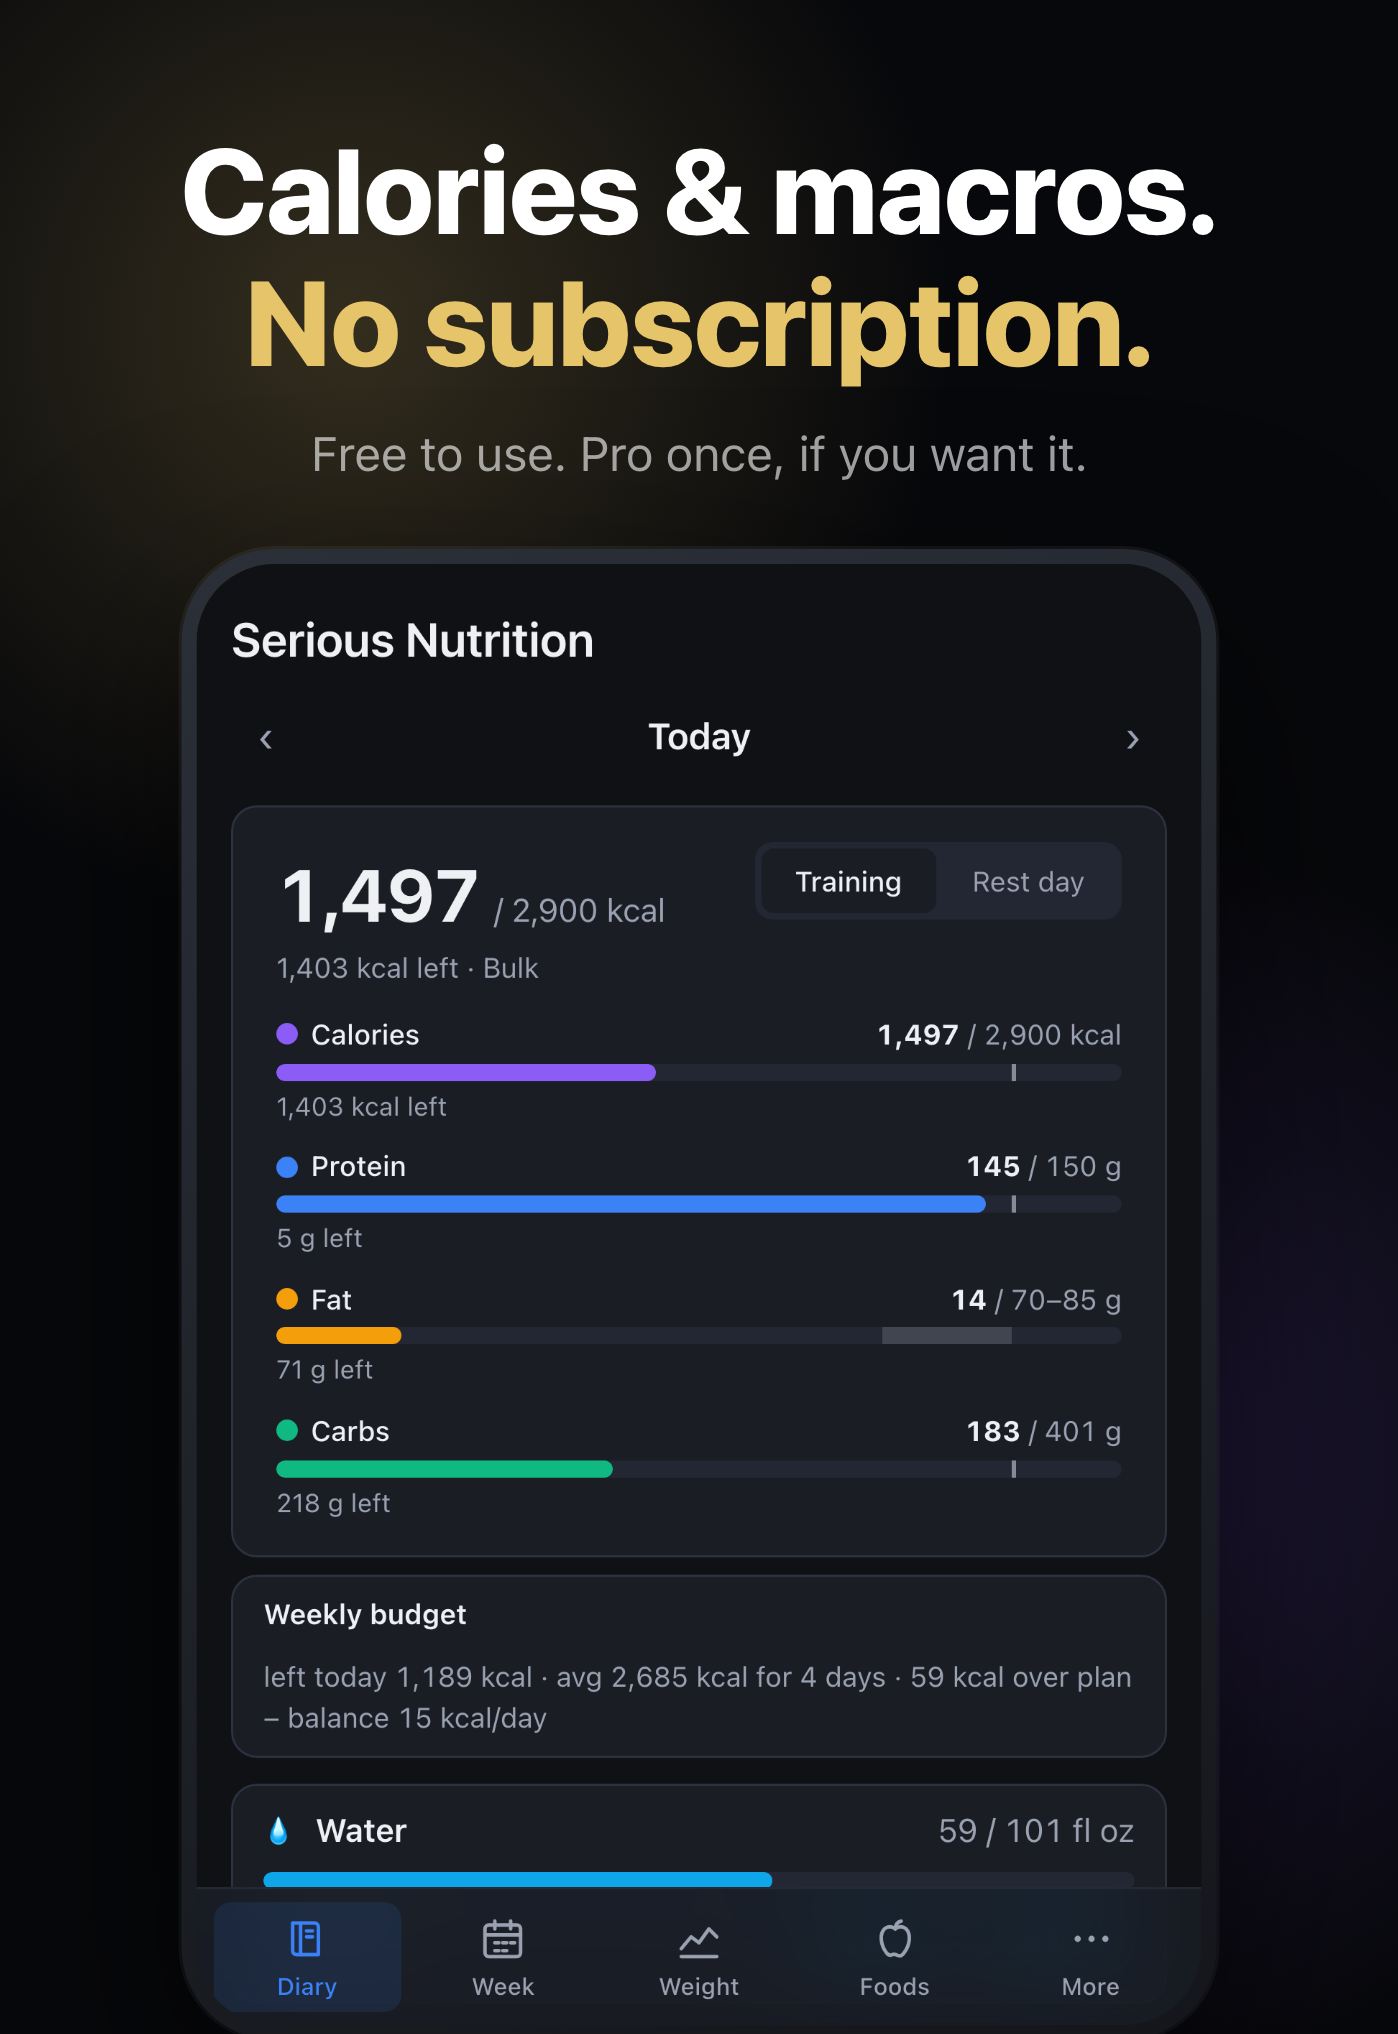
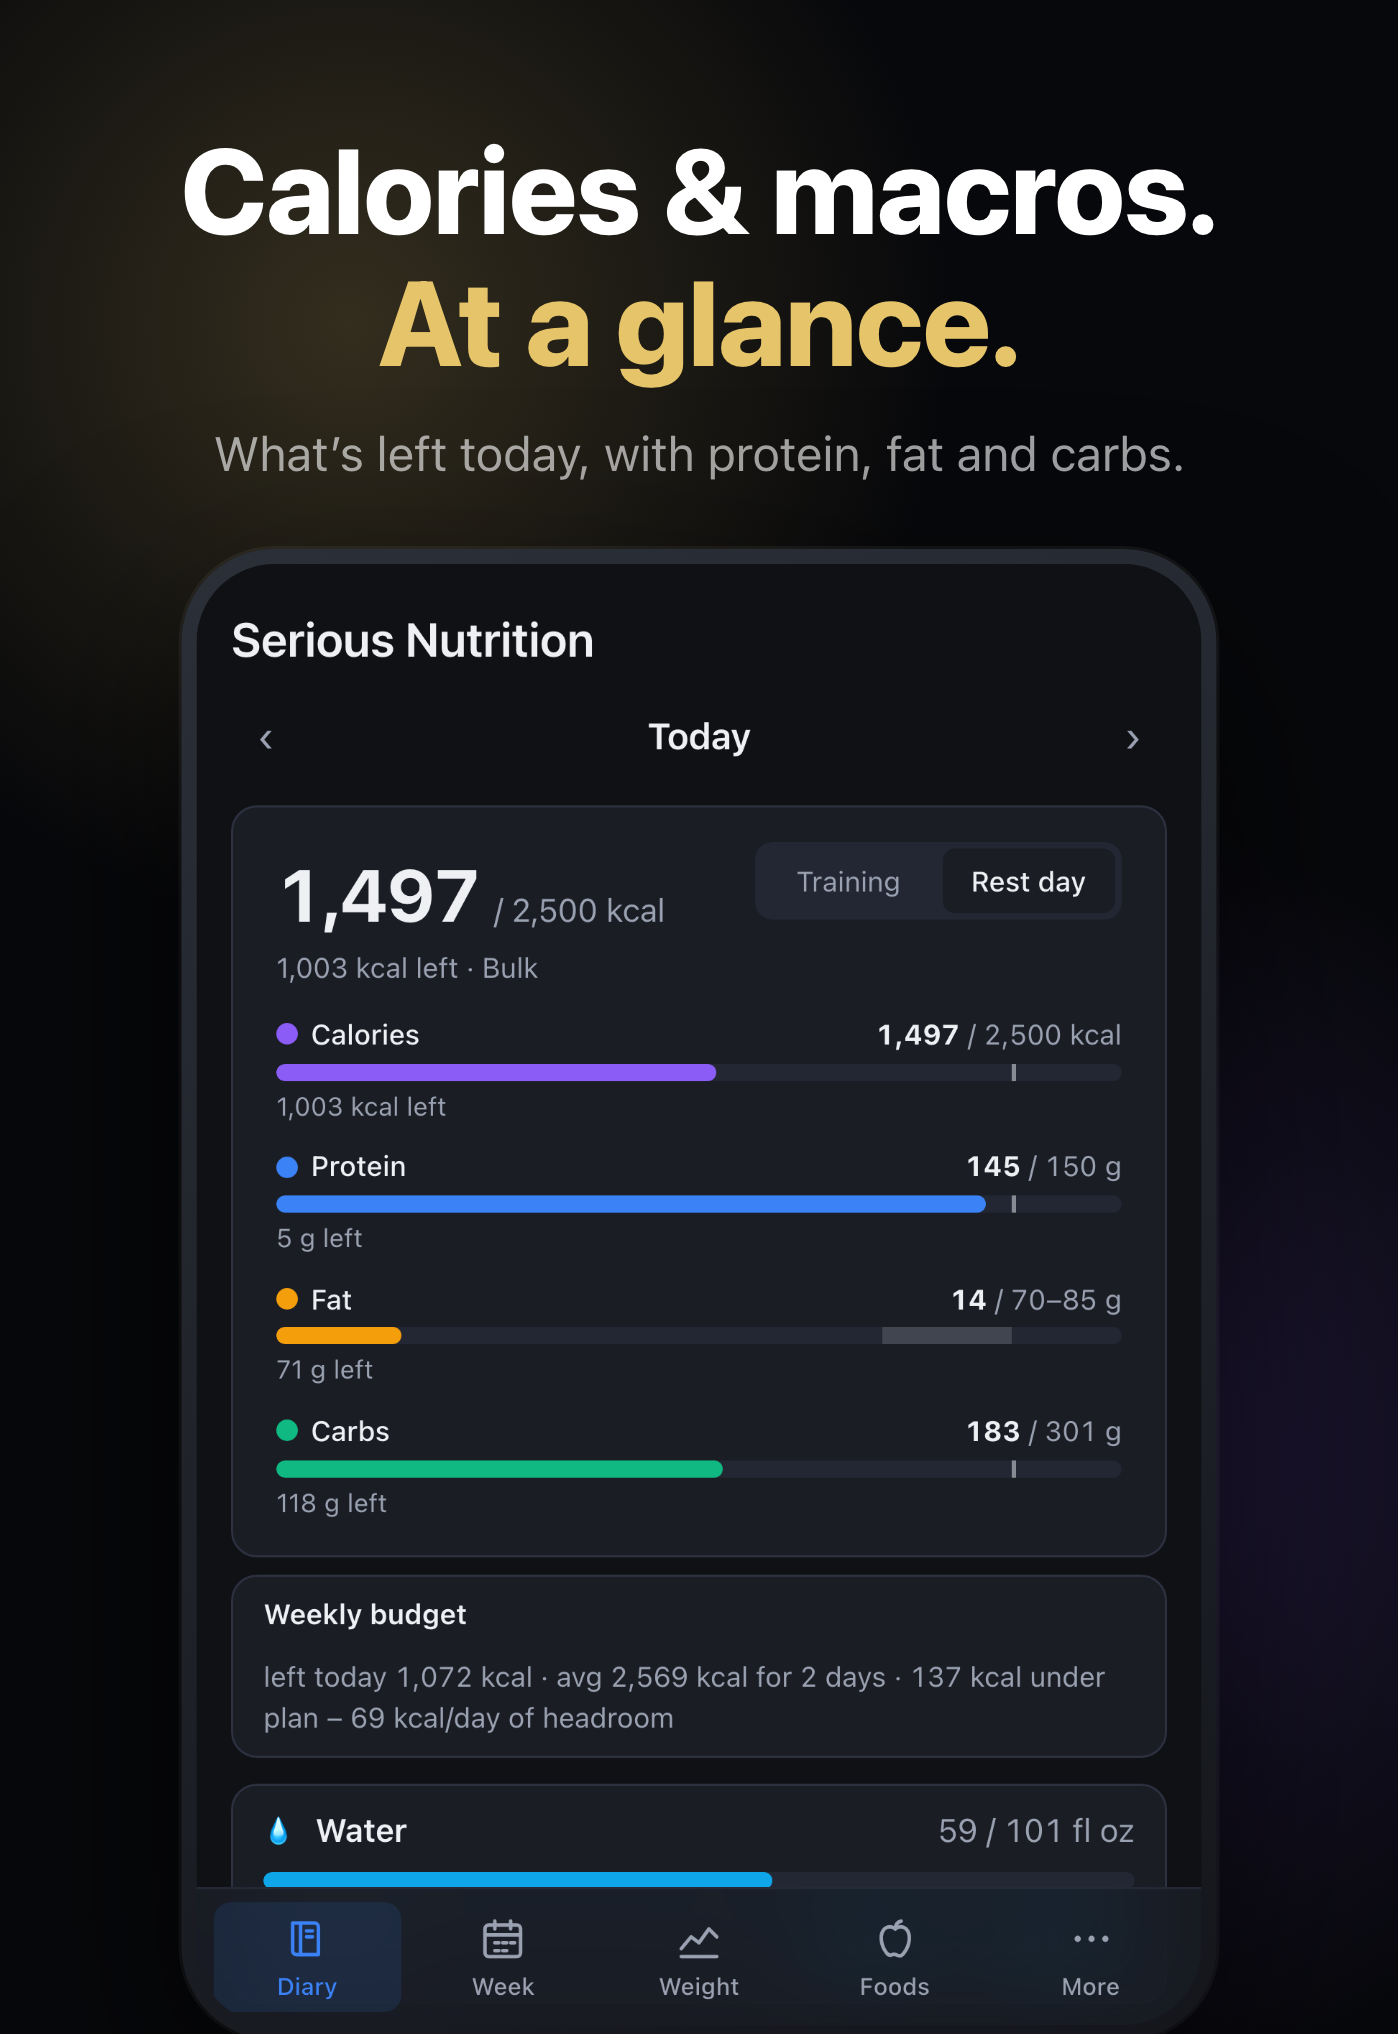
1.2: Screenshot 1 ohne Preisangabe (Ablehnung 2.3.7), Store-Texte und Review-Notizen eingetragen

diff --git a/docs/APP-REVIEW-NOTES.md b/docs/APP-REVIEW-NOTES.md
@@ -96,3 +96,31 @@ pre-fills a form the user saves.
 PRIVACY – Unchanged: no accounts, no analytics, no data collection. Fewer requests to Open Food
 Facts than before, because most lookups are answered from the bundled extract.
 ```
+
+
+# Eingetragen für 1.2 (16.10.2026)
+
+Alter Text + Ergänzung hätten 5'300 Zeichen ergeben, Apple erlaubt 4'000. Eingetragen ist deshalb
+ein gekürzter Gesamttext (3'250 Zeichen):
+
+```
+Serious Nutrition is an offline calorie and macro tracker. No account, login or sign-in exists; all data is stored on the device. The screen recording attached to earlier versions shows the full flow (onboarding, adding food, barcode scan incl. camera prompt, water, week, weight, foods, settings, backup).
+
+PURPOSE - A calorie and macro diary for people who train with a goal (muscle gain, fat loss, maintenance), built by a calisthenics coach. Targets differ between training and rest days, protein is a minimum, fat a range, and the week is treated as a budget.
+
+SETUP - No login or sample files needed. First launch: onboarding suggests targets; "Skip" is available. Diary: "+ Add" on a meal > Search, Scan, Templates or Manual. Any retail barcode works for testing the scanner.
+
+IN-APP PURCHASE - One non-consumable, "Serious Nutrition Pro" (pro_lifetime): one-time, no subscription, no trial, no account. Validated through StoreKit via RevenueCat; "Restore purchases" is on the paywall and under More. Free stays free: diary, scanning, search, water, targets, week and weekly budget, reminders, backup. Pro unlocks Apple Health, the phase review, widgets, templates and "copy yesterday", portion sizes, the weight trend chart and CSV export. To see the paywall: More > Serious Nutrition Pro, or tap any item marked PRO. Users who had the app before 1.1 keep Pro for free; a fresh install sees the paywall (intended).
+
+WHAT'S NEW IN 1.2
+- Bundled products: about 290,000 branded products from Open Food Facts (the most-scanned worldwide plus the most-scanned of every country), with name, brand, energy, protein, fat and carbohydrates per 100 g. Scans and product search check this extract first, without a network request; only products not in it are looked up online as before. ODbL (contents DbCL), attributed under More, in the description and in the terms of use.
+- American foods: when the app language is English, about 6,300 basic foods from USDA FoodData Central (SR Legacy, public domain) are added to the bundled table, plus piece weights for 47 common foods (egg, banana, apple...).
+- Apple Health now also READS the step count (HKQuantityTypeIdentifierStepCount) in addition to body mass and active energy. Steps are only displayed (diary and weekly summary), never leave the device and never change the user's targets. Health access stays optional and part of Pro.
+- Needs calculator under More > Phases > "Calculate needs": Mifflin-St Jeor with activity factors from the German Nutrition Society (DGE). Labelled as a starting point, not medical advice; it only pre-fills a form the user saves.
+
+DATA SOURCES - Bundled basic foods: German Nutrient Database (BLS 4.0, Max Rubner-Institut, CC BY 4.0), about 500 entries from the Swiss Food Composition Database V 7.1 (FSVO, written permission of 30 September 2026) and USDA FoodData Central. Bundled data, not services.
+
+EXTERNAL SERVICES - Open Food Facts over HTTPS only for products that are not bundled; Apple StoreKit via RevenueCat for the purchase. No analytics, no ads, no backend of our own. No regional differences besides UI language (English/German) and number formatting. Not a medical device.
+
+Developer: Luca Ernst, Basel, Switzerland - beseriouscalisthenics@gmail.com
+```

diff --git a/docs/RELEASE-1.2.md b/docs/RELEASE-1.2.md
@@ -262,10 +262,10 @@ Heute: 6'906 Einträge = 6'411 BLS + 495 Schweiz.
 
 ### B3. App Store Connect (nur mit der Version änderbar)
 
-- [ ] „+ Version or Platform" → 1.2
-- [ ] Beschreibung DE und EN aus `store/LISTING.md` ersetzen (B2 vorher erledigen)
-- [ ] „Neu in dieser Version" DE und EN neu schreiben
-- [ ] Keywords EN ersetzen. Vorschlag vom 10.10.2026 (96 Zeichen):
+- [x] „+ Version or Platform" → 1.2
+- [x] Beschreibung DE und EN aus `store/LISTING.md` ersetzen (B2 vorher erledigen)
+- [x] „Neu in dieser Version" DE und EN neu schreiben
+- [x] Keywords EN ersetzen. Vorschlag vom 10.10.2026 (96 Zeichen):
       `counter,protein,food,diary,barcode,scanner,offline,diet,bulk,cut,water,weight,coach,calisthenics`
       `calorie`, `macro` und `tracker` fallen weg, weil sie schon im Untertitel stehen und Apple
       Name, Untertitel und Keywords zusammen liest. So werden „calorie counter", „food diary" und
@@ -274,13 +274,20 @@ Heute: 6'906 Einträge = 6'411 BLS + 495 Schweiz.
       Die Prüfung ergab: Hauptsprache English (U.S.) und Keywords sind korrekt. Es fehlen
       Bewertungen und Downloads, die Einstellungen sind in Ordnung.
 - [ ] Screenshots: nur neu erzeugen (`npm run screenshots`), wenn sich das Aussehen geändert hat.
-- [ ] **Screenshots zuordnen:** iPhone-Satz um `07-offline` ergänzen (freigegeben), Reiter „iPhone Duo":
+- [x] **Screenshots zuordnen:** iPhone-Satz um `07-offline` ergänzen (freigegeben), Reiter „iPhone Duo":
       7 Bilder je Sprache aus `duo-inner` (Apple nimmt je Gerät einen Satz; Aussen- und Innenformat
       werden beide angeboten – beide zuordnen, falls die Maske zwei Felder zeigt). Eingereicht am 15.10.2026.
       Demo-Lebensmittel in `store/screenshots.mjs` müssen `source: 'manual'` bleiben.
-- [ ] Review-Notizen: Abschnitt 1.2 aus `docs/APP-REVIEW-NOTES.md`
+- [x] Review-Notizen: Abschnitt 1.2 aus `docs/APP-REVIEW-NOTES.md`
 - [x] App Privacy: am 15.10.2026 auf **„Käufe – Kaufverlauf"** geändert (App-Funktionalität + Analyse, nicht verknüpft, kein Tracking), wie RevenueCat es vorschreibt. Gilt sofort, auch für 1.1. Store-Beschreibung 1.2: „no data leaving your phone" → „your diary never leaves your phone".
-- [ ] Build auswählen, Freigabe terminieren, einreichen
+- [x] Build 27 ausgewählt (16.10.2026). Texte, Keywords, Werbetext, Review-Notizen und Screenshots
+      (iPhone 7, Duo innen 7, je DE/EN) per API bzw. Media Manager eingetragen und zurückgelesen.
+- [x] Lizenzvereinbarung akzeptieren (Luca), dann „Add for Review“ → einreichen (Luca)
+- [x] **17.10.2026 abgelehnt, Guideline 2.3.7:** Screenshot 1 nannte „No subscription. Free to use.“ /
+      „Ohne Abo. Gratis nutzbar.“ – zählt als Preisangabe. Neu: „Calories & macros. At a glance.“ /
+      „Kalorien & Makros. Auf einen Blick.“ (`store/screenshots.mjs`), iPhone und Duo innen je DE/EN
+      ersetzt (`01-glance-*`). Header und Suchbild sagen weiterhin „No subscription. Free.“ – Risiko.
+- [ ] Erneut einreichen (Luca)
 - [ ] Felder mit Klick + `cmd+a` + Tippen befüllen, **nicht** mit `form_input` (verwirft die Werte,
       siehe `handoff.md` Punkt 5)
 

diff --git a/store/LISTING.md b/store/LISTING.md
@@ -28,6 +28,11 @@ so passt `offline` hinein, der einzige echte Unterschied zu Lifesum und Lose It!
 101 Zeichen und damit über dem Limit.)
 
 ## Werbetext (Apple, ≤170) – änderbar ohne neue Version
+- **Ab 1.2 (eingetragen 16.10.2026):**
+  - EN: `New: about 290,000 products built in, so scanning and search work even offline. Pro is a one-time purchase – at the launch price until January 31.` (146)
+  - DE: `Neu: rund 290'000 Produkte in der App – Scannen und Suche gehen auch offline. Pro: Einmalkauf zum Einführungspreis bis 31. Januar.` (130)
+
+Bis 1.1:
 - EN: `New: 6,900 basic foods built in, Swiss dishes included, so search works offline. Pro is a one-time purchase – at the launch price until January 31.` (147)
 - DE: `Neu: 6900 Grundnahrungsmittel in der App, Schweizer Küche inklusive – die Suche funktioniert offline. Pro: Einmalkauf zum Einführungspreis bis 31. Januar.` (154)
 
